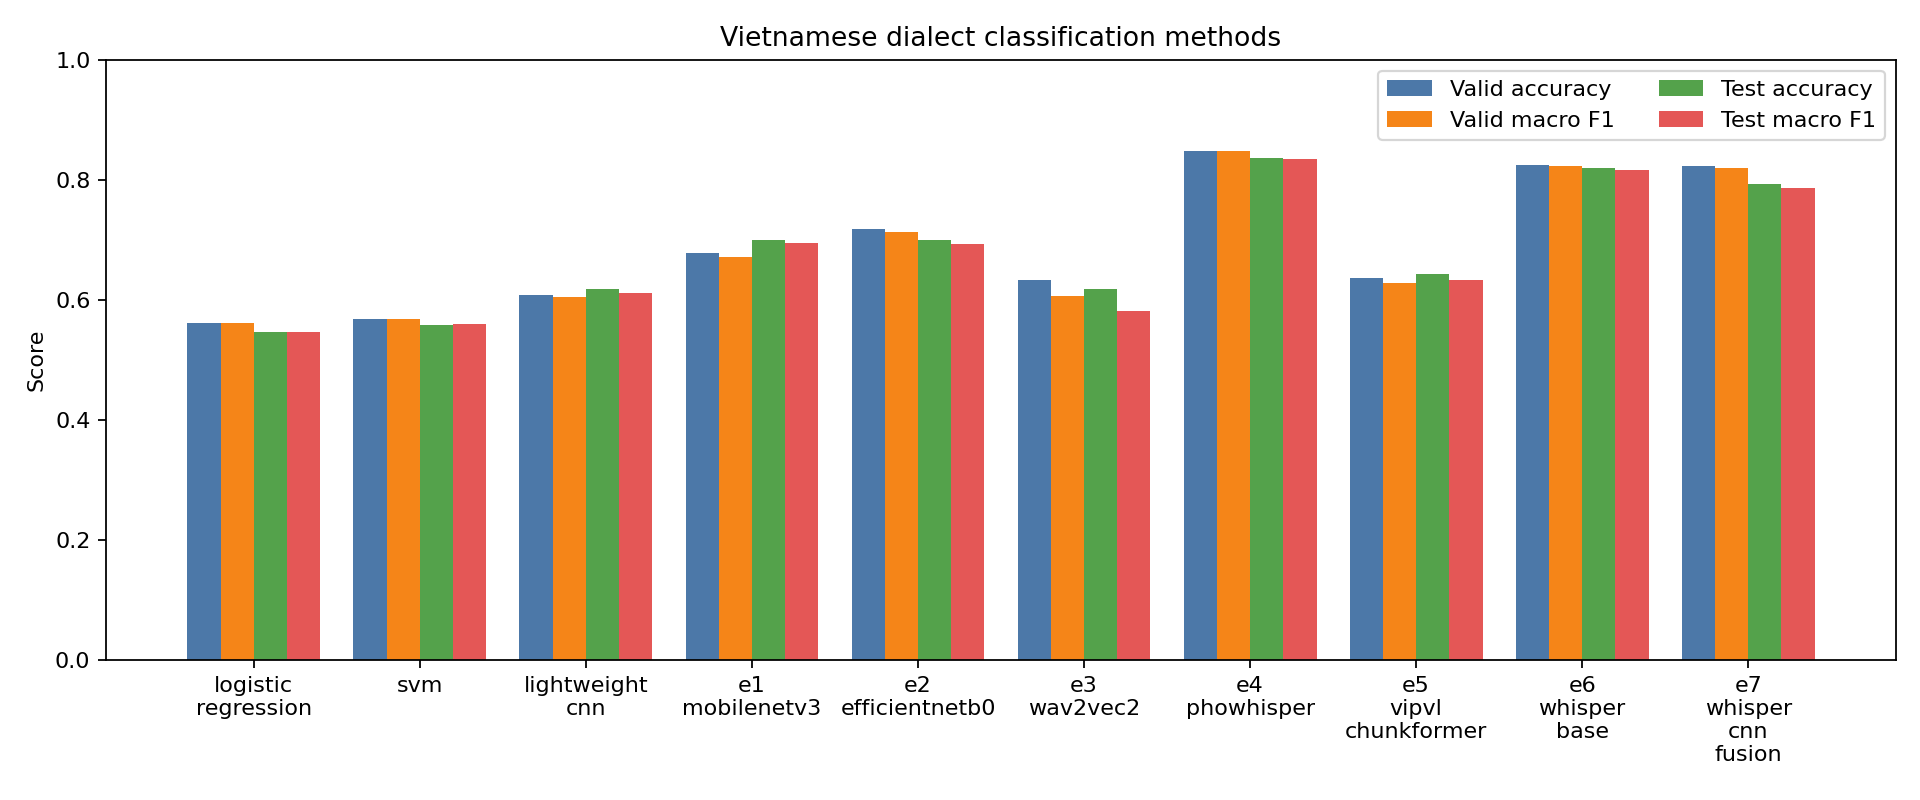
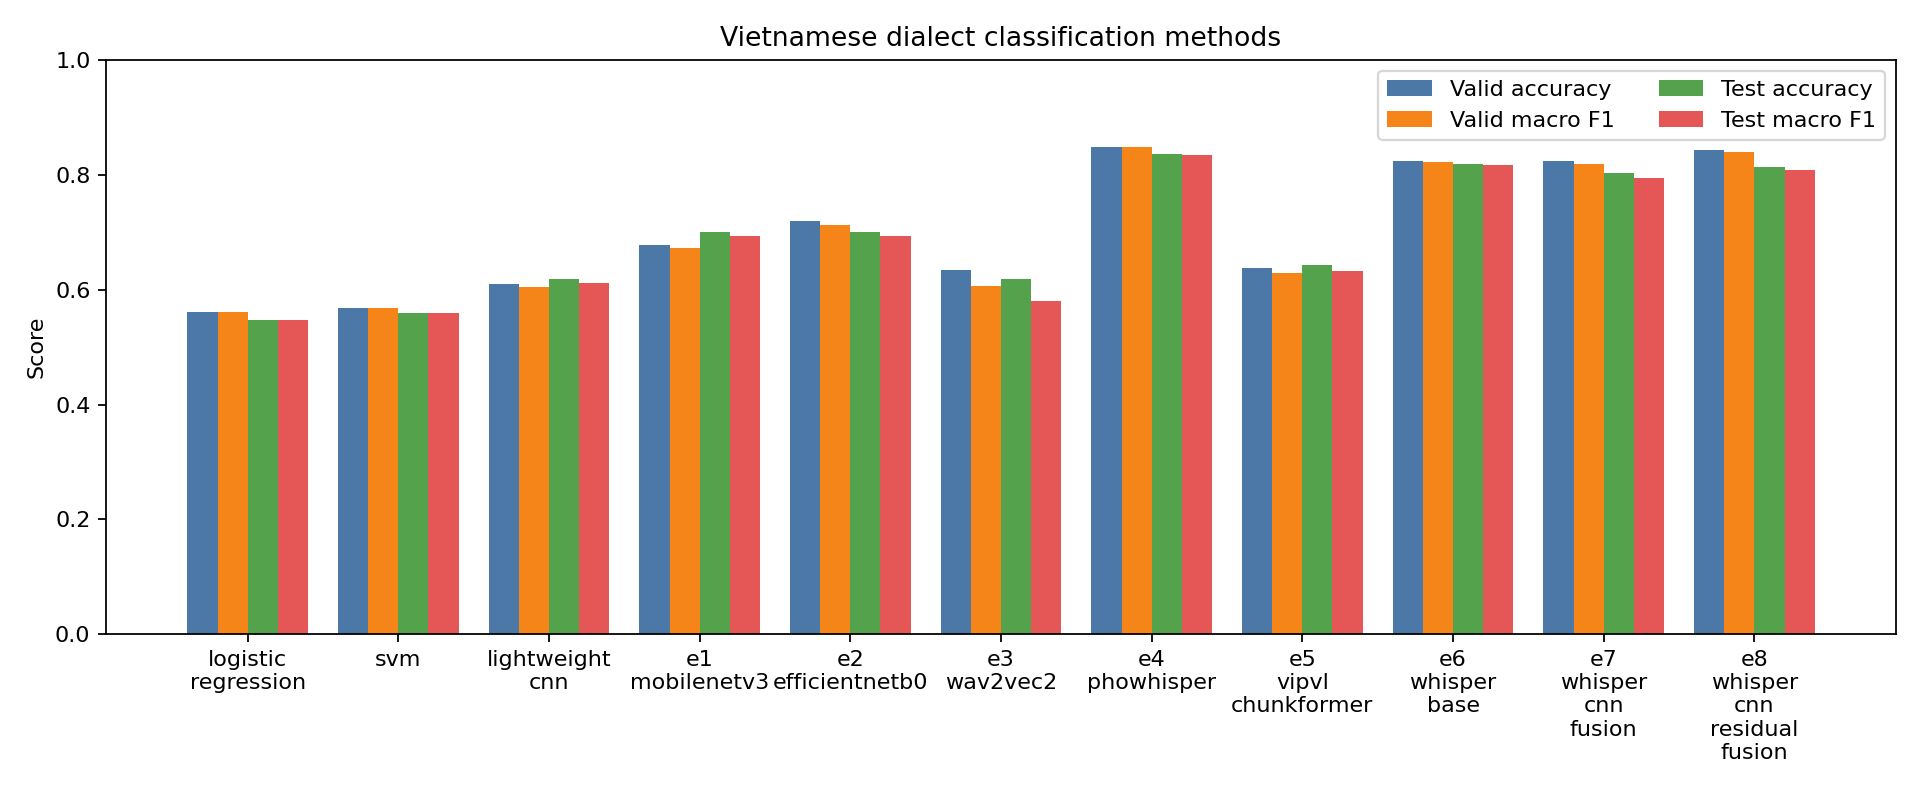
Record E8 residual fusion results
Add E8 metrics, confusion matrices, report, confusion figure, and refreshed method-comparison artifacts from the residual-gated run.

diff --git a/outputs/reports/phase11_whisper_cnn_residual_fusion_report.md b/outputs/reports/phase11_whisper_cnn_residual_fusion_report.md
@@ -1,0 +1,32 @@
+# Phase 11 PhoWhisper + CNN Residual Fusion Report
+
+This experiment keeps the PhoWhisper encoder frozen and uses the trained E2 EfficientNetB0-style log-Mel branch as a residual acoustic correction. The residual-gated fusion is `z = g + beta * r(g,l) * P(l)`, where the PhoWhisper baseline head is warm-started from the frozen PhoWhisper checkpoint.
+
+| Split | Accuracy | Macro F1 | Central Recall | Central F1 | Loss |
+| --- | ---: | ---: | ---: | ---: | ---: |
+| train | 0.9093 | 0.9069 | 0.8232 | 0.8632 | 0.2456 |
+| valid | 0.8422 | 0.8395 | 0.7125 | 0.7669 | 0.4241 |
+| test | 0.8128 | 0.8085 | 0.6489 | 0.7223 | 0.4920 |
+
+Best epoch by `hybrid_macro_central`: 5.
+Best validation score: 0.8177.
+Training device: `mps`.
+Fusion type: `residual_gated`.
+Beta init: 0.1000.
+Beta learned: 0.0928.
+Test gate mean: 0.4189145188926833.
+PhoWhisper encoder trainable parameters: 0.
+EfficientNet local encoder trainable parameters: 69400.
+EfficientNet trainable child modules: `5, 6`.
+PhoWhisper head warm-start: `True`.
+EfficientNet checkpoint: `outputs/models/e2_efficientnetb0_logmel.pt`.
+Checkpoint: `outputs/models/e8_whisper_cnn_residual_fusion.pt`.
+
+## Central Dialect Focus
+
+- Test Central recall: 0.6489.
+- Test Central F1: 0.7223.
+- Central -> Northern errors: 68.
+- Central -> Southern errors: 103.
+
+The model predicts only the three dataset-defined regional dialect labels. It does not infer hometown, identity, ethnicity, or personal background.
